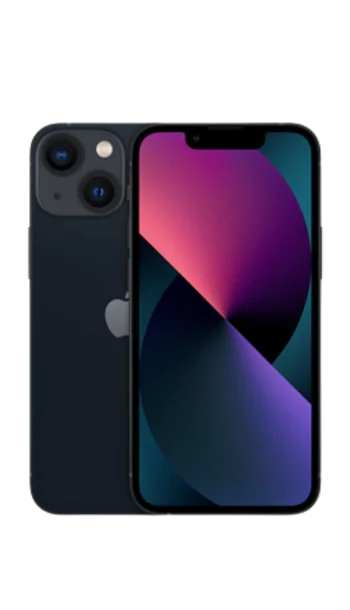
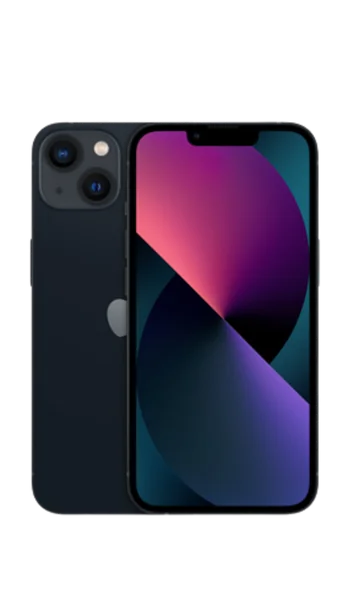
v1.1: iPhone 13 y 13 mini completos (83 de 182)
Claude-Session: https://claude.ai/code/session_01T8bAe4Z7w5hoWuiY5mK5Vw

diff --git a/assets/js/datos/predeterminadas.js b/assets/js/datos/predeterminadas.js
@@ -29,9 +29,10 @@ export const IMAGENES_PREDETERMINADAS = {
   // 12 Pro y 12 Pro Max: cada uno con sus imágenes (las del Pro Max se ven más grandes).
   "iphone-12-pro": { "Grafito": "grafito", "Azul pacífico": "azul-pacifico", "Oro": "oro", "Plata": "plata" },
   "iphone-12-pro-max": { "Grafito": "grafito", "Azul pacífico": "azul-pacifico", "Oro": "oro", "Plata": "plata" },
-  // 13 y 13 mini: las mismas imágenes hasta que Jared pase un juego para cada uno.
-  "iphone-13": { "Blanco estelar": "blanco-estelar", "Medianoche": "medianoche", "Azul": "azul", "Rosa": "rosa", "Verde": "verde" },
-  "iphone-13-mini": { "Blanco estelar": "blanco-estelar", "Medianoche": "medianoche", "Azul": "azul", "Rosa": "rosa", "Verde": "verde" },
+  // 13 mini: su juego completo. 13: el suyo, salvo Blanco estelar y (PRODUCT)RED,
+  // que por ahora son los del 13 mini.
+  "iphone-13": { "Blanco estelar": "blanco-estelar", "Medianoche": "medianoche", "Azul": "azul", "Rosa": "rosa", "Verde": "verde", "(PRODUCT)RED": "product-red" },
+  "iphone-13-mini": { "Blanco estelar": "blanco-estelar", "Medianoche": "medianoche", "Azul": "azul", "Rosa": "rosa", "Verde": "verde", "(PRODUCT)RED": "product-red" },
   "iphone-se-2": { "Negro": "negro", "(PRODUCT)RED": "product-red", "Blanco": "blanco" },
   "iphone-8": { "Oro": "oro", "Gris espacial": "gris-espacial", "(PRODUCT)RED": "product-red", "Plata": "plata" },
   "iphone-8-plus": { "(PRODUCT)RED": "product-red", "Plata": "plata", "Gris espacial": "gris-espacial", "Oro": "oro" },

diff --git a/DOCUMENTACION.md b/DOCUMENTACION.md
@@ -1564,7 +1564,7 @@ CORREOS_IDIOMA=pt BIN=… bash tests/supabase-local/levantar.sh   # con los corr
 - [ ] **Fuentes legales que no se pudieron abrir** desde el entorno: se verificaron con el buscador y, desde el 22/10/2026, con los informes de Gemini Deep Research que pasó Jared (citas revisadas por coherencia, no contra el original). Ver `legal/FUENTES.md`. Queda para el abogado: la Ley 2300 (franjas, con fuentes secundarias) y si el radicado de PQR con respuesta por WhatsApp o correo cumple con el "seguimiento" (fuente 17).
 - [ ] **Cookies del script de seguimiento externo de GHL:** no se verificaron; si se activa, agregarlo a la Política de cookies.
 - [ ] Probar en GHL los campos de consentimiento y la guía de la sección 12.3.
-- [ ] **Imágenes predeterminadas (v1.1):** Jared las pasa de a 5. Van 81 de 182 combinaciones de modelo y color. Completos: iPhone 7, 7 Plus, 8, 8 Plus, X, XS, XS Max, XR, 11, 11 Pro, 11 Pro Max, SE (2.ª generación), 12, 12 mini, 12 Pro y 12 Pro Max (cada uno con sus imágenes). 13 y 13 mini: Blanco estelar, Medianoche, Azul, Rosa y Verde, las mismas en los dos (falta (PRODUCT)RED). XS y XS Max: Gris espacial (cada uno con su imagen), Oro y Plata (la misma en los dos). Plata lleva la marca de agua de otra empresa: Jared decidió dejarla así. 12 y 12 mini: cada uno con su juego de imágenes (Jared pasó uno para cada uno). La lista exacta está en `IMAGENES_PREDETERMINADAS` (`assets/js/datos/predeterminadas.js`). El proceso para cada tanda está en la sección 5 de `AI_HANDOFF.md`.
+- [ ] **Imágenes predeterminadas (v1.1):** Jared las pasa de a 5. Van 83 de 182 combinaciones de modelo y color. Completos: iPhone 7, 7 Plus, 8, 8 Plus, X, XS, XS Max, XR, 11, 11 Pro, 11 Pro Max, SE (2.ª generación), 12, 12 mini, 12 Pro y 12 Pro Max (cada uno con sus imágenes). 13 y 13 mini completos: el 13 mini con su juego; el 13 con el suyo, salvo Blanco estelar y (PRODUCT)RED, que por ahora son los del 13 mini. XS y XS Max: Gris espacial (cada uno con su imagen), Oro y Plata (la misma en los dos). Plata lleva la marca de agua de otra empresa: Jared decidió dejarla así. 12 y 12 mini: cada uno con su juego de imágenes (Jared pasó uno para cada uno). La lista exacta está en `IMAGENES_PREDETERMINADAS` (`assets/js/datos/predeterminadas.js`). El proceso para cada tanda está en la sección 5 de `AI_HANDOFF.md`.
 - [ ] Que el abogado confirme si publicar capturas de clientes (aun tapadas) necesita autorización por escrito, y si alcanza con lo que guarda el panel desde `0034` (canal, fecha y alcance de la autorización, sin datos de la persona; el mensaje o el documento lo guarda la tienda por fuera).
 - [ ] **Reseñas de antes de `0034`:** quedan "sin registrar" hasta que la tienda complete la autorización en su fila. Se siguen mostrando en el sitio mientras tanto.
 - [x] ~~Confirmar los nombres del catálogo~~: confirmados con las fichas de soporte de Apple en español (informes de Gemini, 22/10/2026). Apple anunció el 17e, 18 Pro, 18 Pro Max y Duo.
@@ -1632,6 +1632,12 @@ Otros LLM o herramientas que no ejecuten hooks deben seguir la misma regla a man
 ## 19. Registro de cambios
 
 > La entrada más nueva va arriba. Formato: **fecha · título** — pedido → qué se hizo → archivos → verificación.
+
+### 23/10/2026 · v1.1: iPhone 13 y 13 mini completos (83 de 182)
+
+- **Pedido de Jared:** 5 imágenes más (84 a 88): Medianoche, (PRODUCT)RED, Verde, Rosa y Azul.
+- **Hecho:** hay dos encuadres. 79 a 83 y 85 (el teléfono mide unos 296 × 394 px en el cuadro) tienen las cámaras y la manzana más grandes en proporción: son del 13 mini, que queda con sus 6 colores (85 es su (PRODUCT)RED). 84, 86, 87 y 88 (291 × 395 px) son del 13: Medianoche, Verde, Rosa y Azul propios. Blanco estelar y (PRODUCT)RED del 13 usan, por ahora, los del 13 mini.
+- **Verificación:** `node tests/documentacion.mjs` OK, todos los archivos del mapa existen, y en `tests/verificar.cjs` pasan el caso "v1.1: imágenes" y el 11 (sin marca).
 
 ### 23/10/2026 · v1.1: iPhone 13 y 13 mini (81 de 182)
 

diff --git a/AI_HANDOFF.md b/AI_HANDOFF.md
@@ -210,7 +210,7 @@ No hay tests fallando ni configuraciones a medias. El código actual funciona y 
       5. Correr el caso "v1.1: imágenes" y el 11 (sin marca) de `verificar.cjs`.
       6. Actualizar en `DOCUMENTACION.md` la cuenta de la sección 17 ("Van N de 182") y la entrada de la 19.
       7. Commit y push.
-    - **Cargadas hasta ahora (81 de 182; 13 y 13 mini con Blanco estelar, Medianoche, Azul, Rosa y Verde, las mismas en los dos, falta (PRODUCT)RED; 12 Pro y 12 Pro Max completos, cada uno con sus imágenes (el Pro Max: 75 a 78; se distingue porque el teléfono ocupa más en el cuadro); el 12 y el 12 mini están completos y cada uno tiene su juego de imágenes (el del 12 mini: imágenes 64 a 66, 68, 69 y 70); ver el detalle en la sección 17 de `DOCUMENTACION.md`):** 12 y 12 mini con Blanco, Negro, Morado y (PRODUCT)RED, las mismas imágenes en los dos. La imagen 57 era del XS (lo confirmó Jared): reemplazó la del XS en Gris espacial; el XS Max conserva la anterior. Antes: completos el iPhone 7, 7 Plus, 8, 8 Plus, X, XR, 11, 11 Pro, 11 Pro Max y SE (2.ª generación); XS y XS Max completos: Gris espacial (cada uno el suyo), Oro y Plata (la misma en los dos). Plata lleva la marca de agua "Swappie": Jared decidió dejarla (23/10/2026). **Fuera de esa decisión, no cargar imágenes con marcas de agua de terceros sin preguntarle.** Criterio: si dos modelos se ven iguales y solo cambia el tamaño (Pro y Pro Max, por ejemplo), la misma imagen va en los dos y se le avisa a Jared.
+    - **Cargadas hasta ahora (83 de 182; 13 y 13 mini completos (el 13 mini con su juego: 79 a 83 y 85; el 13 con 84 y 86 a 88, y Blanco estelar y (PRODUCT)RED prestados del 13 mini hasta que Jared pase los suyos); 12 Pro y 12 Pro Max completos, cada uno con sus imágenes (el Pro Max: 75 a 78; se distingue porque el teléfono ocupa más en el cuadro); el 12 y el 12 mini están completos y cada uno tiene su juego de imágenes (el del 12 mini: imágenes 64 a 66, 68, 69 y 70); ver el detalle en la sección 17 de `DOCUMENTACION.md`):** 12 y 12 mini con Blanco, Negro, Morado y (PRODUCT)RED, las mismas imágenes en los dos. La imagen 57 era del XS (lo confirmó Jared): reemplazó la del XS en Gris espacial; el XS Max conserva la anterior. Antes: completos el iPhone 7, 7 Plus, 8, 8 Plus, X, XR, 11, 11 Pro, 11 Pro Max y SE (2.ª generación); XS y XS Max completos: Gris espacial (cada uno el suyo), Oro y Plata (la misma en los dos). Plata lleva la marca de agua "Swappie": Jared decidió dejarla (23/10/2026). **Fuera de esa decisión, no cargar imágenes con marcas de agua de terceros sin preguntarle.** Criterio: si dos modelos se ven iguales y solo cambia el tamaño (Pro y Pro Max, por ejemplo), la misma imagen va en los dos y se le avisa a Jared.
     - **Mecanismo** (ya hecho; no cambia por tanda):
       - En `equipos.fotos` va la ruta `predeterminadas/<slug>/<archivo>.webp`.
       - `urlArchivo()` (demo y Supabase) la sirve desde el sitio y `borrarArchivos()` no la borra.
